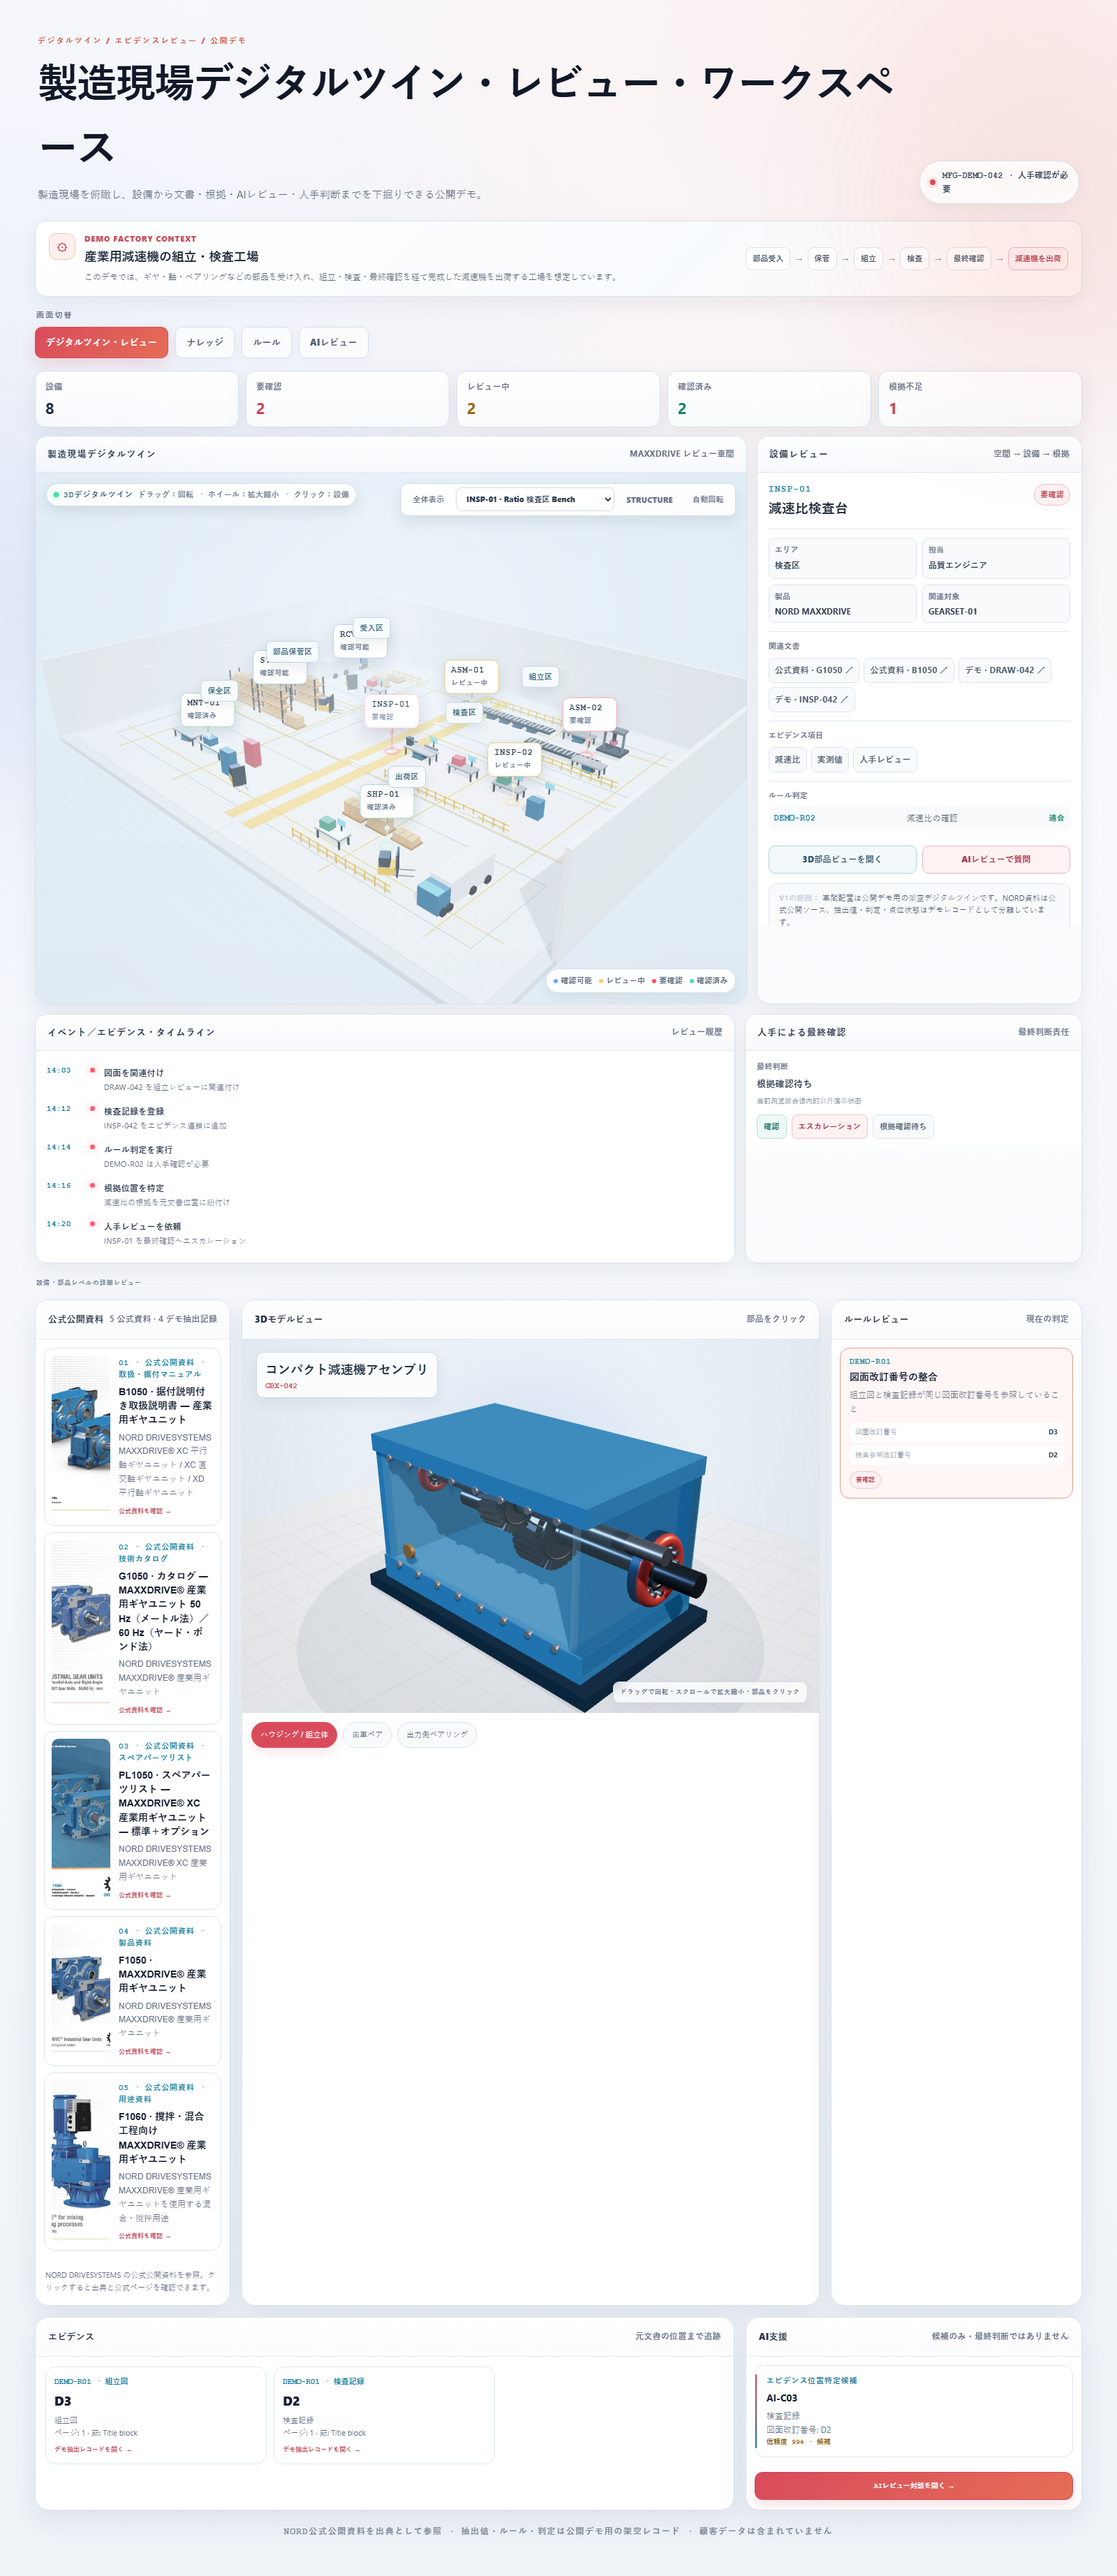
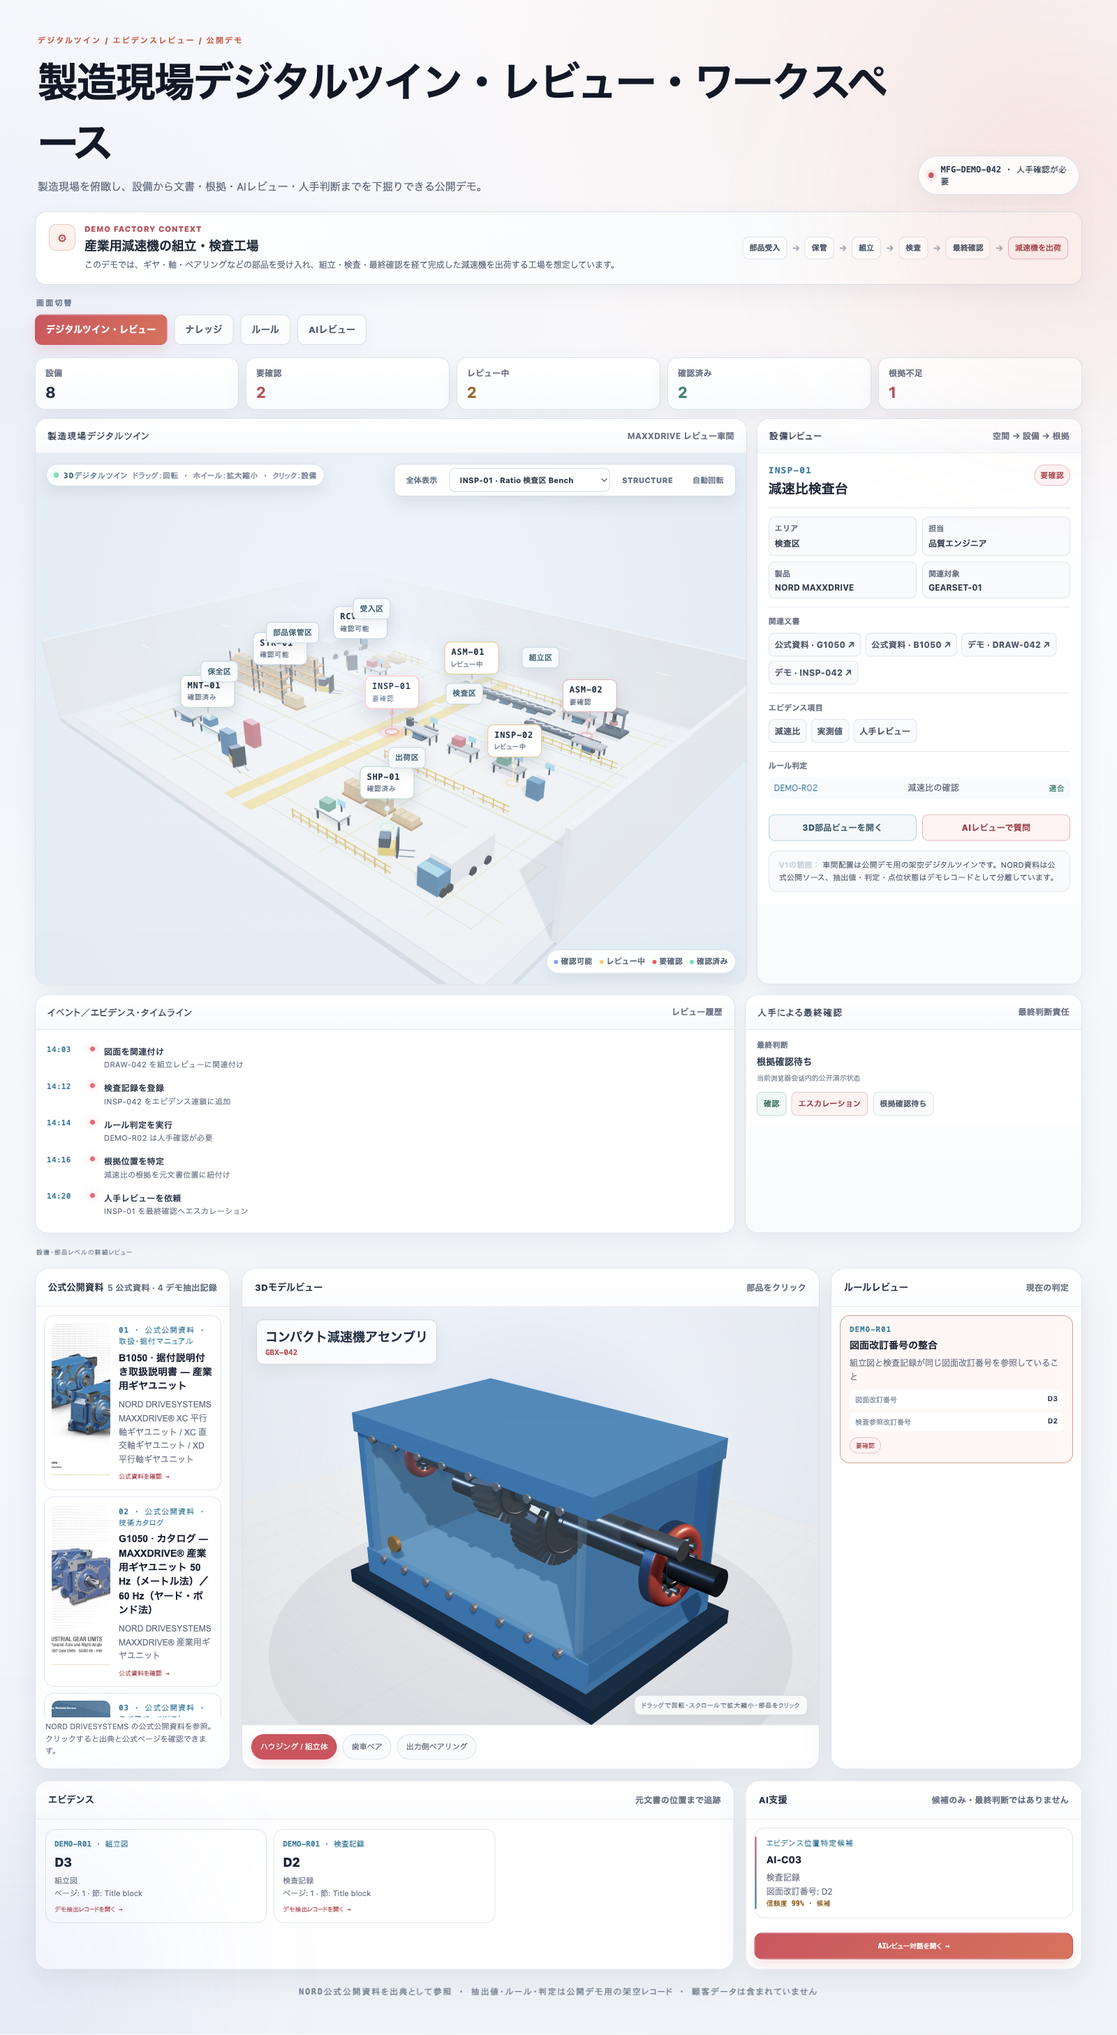
docs: refresh the demo GIF and workspace screenshot after the layout fix
Both assets show the review view, whose middle column carried 784px of dead space
before the panels were aligned. Re-recorded them against the current page:

- demo.gif: 1100x720, 5 fps, 18.8s (was 20.8s). It now ends on the streamed
  answer, which cites ISO 1122-1:1998, NORD G1050 p.88-89 and ISO 1328-1:2013 and
  states that the demo's 1.5% tolerance is not a published spec value.
- workspace.png: full page, 1600x2915 (was 3689) — the height the dead space cost.

The clip is captured as screencast frames and assembled with ffmpeg; the model's
thinking pause is time-compressed so the run time stays close to the original.

rules.png and ai-chat.png are deliberately untouched: the fix only affected
#review-view, and a fresh capture of the rules view is pixel-identical to the
committed one.

Update the stated duration in both READMEs to match the new clip.

diff --git a/README.md b/README.md
@@ -8,7 +8,7 @@
 
 ---
 
-## 動作デモ（約21秒）
+## 動作デモ（約19秒）
 
 ![デモ：ルール確認からAIレビュー支援まで](docs/demo.gif)
 

diff --git a/README.zh-CN.md b/README.zh-CN.md
@@ -8,7 +8,7 @@
 
 ---
 
-## 操作演示（约 21 秒）
+## 操作演示（约 19 秒）
 
 ![演示：从规则确认到 AI 审查辅助](docs/demo.gif)
 
